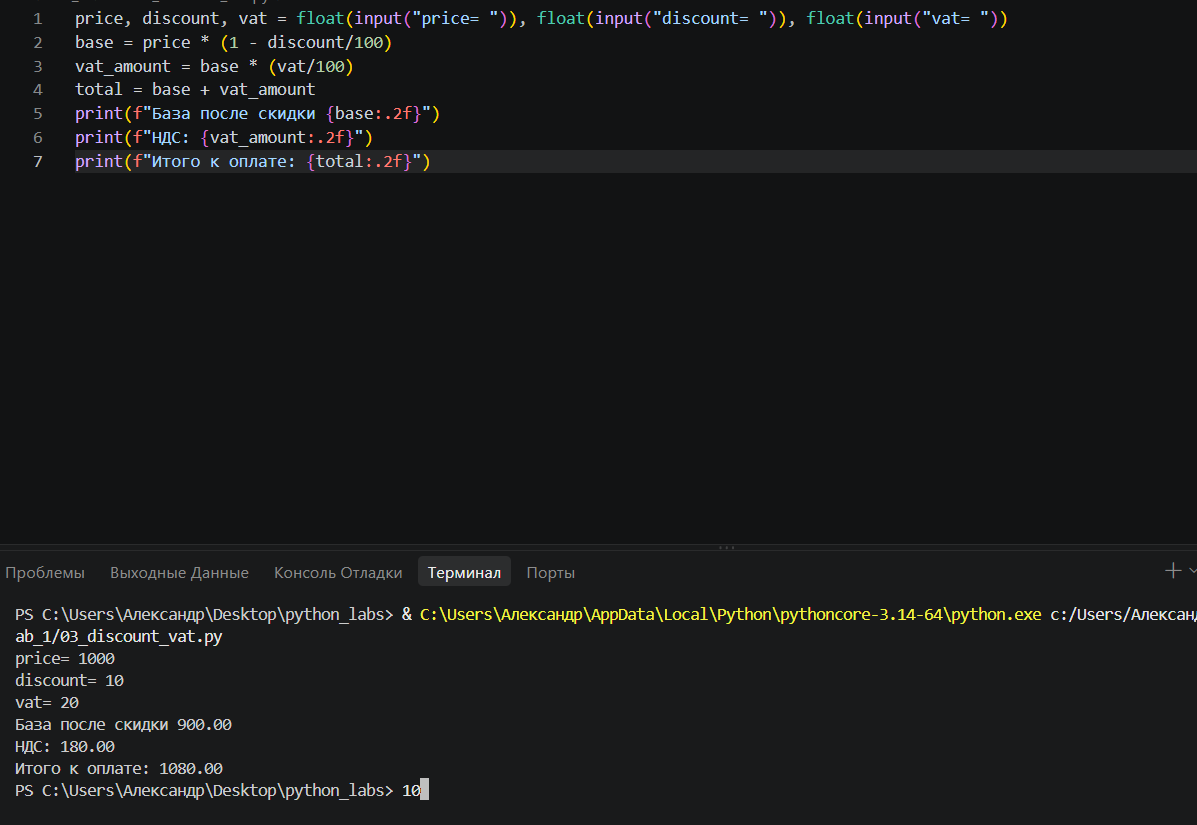
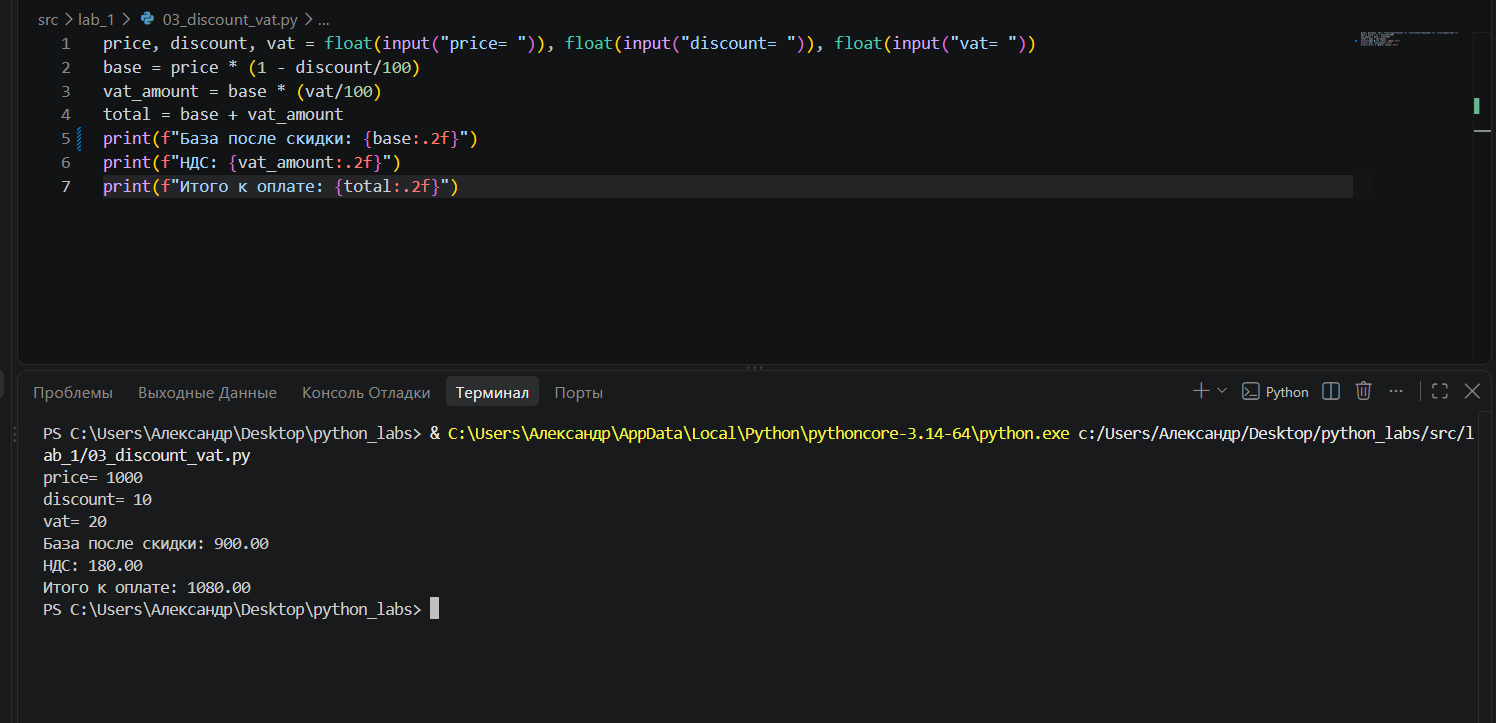
исправил 3, 4, 5, 6 задачи и их скриншоты

diff --git a/src/lab_2/arrays.py b/src/lab_2/arrays.py
@@ -1,5 +1,6 @@
 def min_max(nums: list[float | int]) -> tuple[float | int, float | int]:
-    """Параметры:
+    """
+    Параметры:
         nums: список чисел.
 
     Возвращает:
@@ -14,7 +15,8 @@ def min_max(nums: list[float | int]) -> tuple[float | int, float | int]:
 
 
 def unique_sorted(nums: list[float | int]) -> list[float | int]:
-    """Параметры:
+    """
+    Параметры:
         nums: список чисел.
 
     Возвращает:
@@ -24,7 +26,8 @@ def unique_sorted(nums: list[float | int]) -> list[float | int]:
 
 
 def flatten(mat: list[list | tuple]) -> list:
-    """Параметры:
+    """
+    Параметры:
         mat: список списков/кортежей.
 
     Возвращает:
@@ -41,61 +44,3 @@ def flatten(mat: list[list | tuple]) -> list:
             for j in i:
                 row_major.append(j)
         return row_major
-
-
-# ---------------------------------------------------------
-# ЭТОТ БЛОК НУЖЕН, ЧТОБЫ ФУНКЦИИ ЗАПУСТИЛИСЬ И ВСЁ ПРОВЕРИЛОСЬ
-# ---------------------------------------------------------
-if __name__ == "__main__":
-    print("=== Проверка min_max ===")
-    tests_min_max = [
-        ([3, -1, 5, 5, 0], (-1, 5)),
-        ([42], (42, 42)),
-        ([-5, -2, -9], (-9, -2)),
-        ([1.5, 2, 2.0, -3.1], (-3.1, 2)),
-    ]
-    for i, (inp, expected) in enumerate(tests_min_max, 1):
-        result = min_max(inp)
-        status = "✅" if result == expected else "❌"
-        print(f"Тест {i}: {status} | min_max({inp}) → {result} (ожидалось {expected})")
-
-    # Проверка ошибки на пустом списке
-    try:
-        min_max([])
-        print("Тест min_max([]): ❌ | Должен был выбросить ошибку!")
-    except ValueError:
-        print("Тест min_max([]): ✅ | Правильно выброшен ValueError")
-
-
-    print("\n=== Проверка unique_sorted ===")
-    tests_unique = [
-        ([3, 1, 2, 1, 3], [1, 2, 3]),
-        ([], []),
-        ([-1, -1, 0, 2, 2], [-1, 0, 2]),
-        ([1.0, 1, 2.5, 2.5, 0], [0, 1.0, 2.5]),
-    ]
-    for i, (inp, expected) in enumerate(tests_unique, 1):
-        result = unique_sorted(inp)
-        status = "✅" if result == expected else "❌"
-        print(f"Тест {i}: {status} | unique_sorted({inp}) → {result} (ожидалось {expected})")
-
-
-    print("\n=== Проверка flatten ===")
-    tests_flatten = [
-        ([[1, 2], [3, 4]], [1, 2, 3, 4]),
-        ([[1, 2], (3, 4, 5)], [1, 2, 3, 4, 5]),
-        ([[1], [], [2, 3]], [1, 2, 3]),
-    ]
-    for i, (inp, expected) in enumerate(tests_flatten, 1):
-        result = flatten(inp)
-        status = "✅" if result == expected else "❌"
-        print(f"Тест {i}: {status} | flatten({inp}) → {result} (ожидалось {expected})")
-
-    # Проверка ошибки на неверном типе
-    try:
-        flatten([[1, 2], "ab"])
-        print("Тест flatten([[1,2], 'ab']): ❌ | Должен был выбросить ошибку!")
-    except TypeError:
-        print("Тест flatten([[1,2], 'ab']): ✅ | Правильно выброшен TypeError")
-
-    print("\n🎉 Все проверки завершены!")

diff --git a/src/lab_1/06_dop.py b/src/lab_1/06_dop.py
@@ -1,10 +1,19 @@
-N = int(input())
+N = int(input('in_1: '))
 data = []
-for i in range(N):
-    data += [[input(), int(input()), int(input())]] # первый input для ФИО, второй для возраста, третий для Булевой переменной(0/1)
-# это довольно лёгкое 26 задание егэ, но т.к. готовой базы данных нет я буду решать для своего примера(5 чел.).
-# фактически мне важно только последнее значение каждого подсписка в data, поэтому:
-data = [i[-1] for i in data]
-k_0 = len([i for i in data if i == 0])
-k_1 = len([i for i in data if i == 1])
-print(f"Очно: {k_1}, Заочно: {k_0}")
+for i in range(2, N+2):
+    data += [input(f'in_{i}: ')]
+    if not data[-1].strip():
+        data = data[:-1]
+        break
+parts = []
+for i in data:
+    parts += [i.split()]
+for i in parts:
+    i[2] = int(i[2])
+    i[3] = str(i[3])
+data_2 = []
+for i in parts:
+    data_2 += [i[-1]]
+offline = len([i for i in data_2 if i == 'True'])
+online = len([i for i in data_2 if i == 'False'])
+print(f'out: {offline} {online}')

diff --git a/src/lab_1/03_discount_vat.py b/src/lab_1/03_discount_vat.py
@@ -2,6 +2,6 @@ price, discount, vat = float(input("price= ")), float(input("discount= ")), floa
 base = price * (1 - discount/100)
 vat_amount = base * (vat/100)
 total = base + vat_amount
-print(f"База после скидки {base:.2f}")
+print(f"База после скидки: {base:.2f}")
 print(f"НДС: {vat_amount:.2f}")
 print(f"Итого к оплате: {total:.2f}")

diff --git a/src/lab_1/05_initials_and_len.py b/src/lab_1/05_initials_and_len.py
@@ -4,5 +4,5 @@ fio = [i for i in FIO.split()]
 l = [len(i) for i in fio]
 for i in fio:
     ans += i[0]
-print(ans)
-print(sum(l)+2)
+print(f'Инициалы: {ans}.')
+print(f'Длина (символов): {sum(l)+2}')

diff --git a/src/lab_1/04_minutes_to_hhmm.py b/src/lab_1/04_minutes_to_hhmm.py
@@ -1,4 +1,7 @@
 m = int(input("Минуты: "))
 h = int(m / 60)
 m = m - h*60
-print(f"{h}:{m}")
+if h < 10:
+    print(f"{h}:{m:02d}")
+else:
+    print(f'{h:02d}:{m:02d}')
